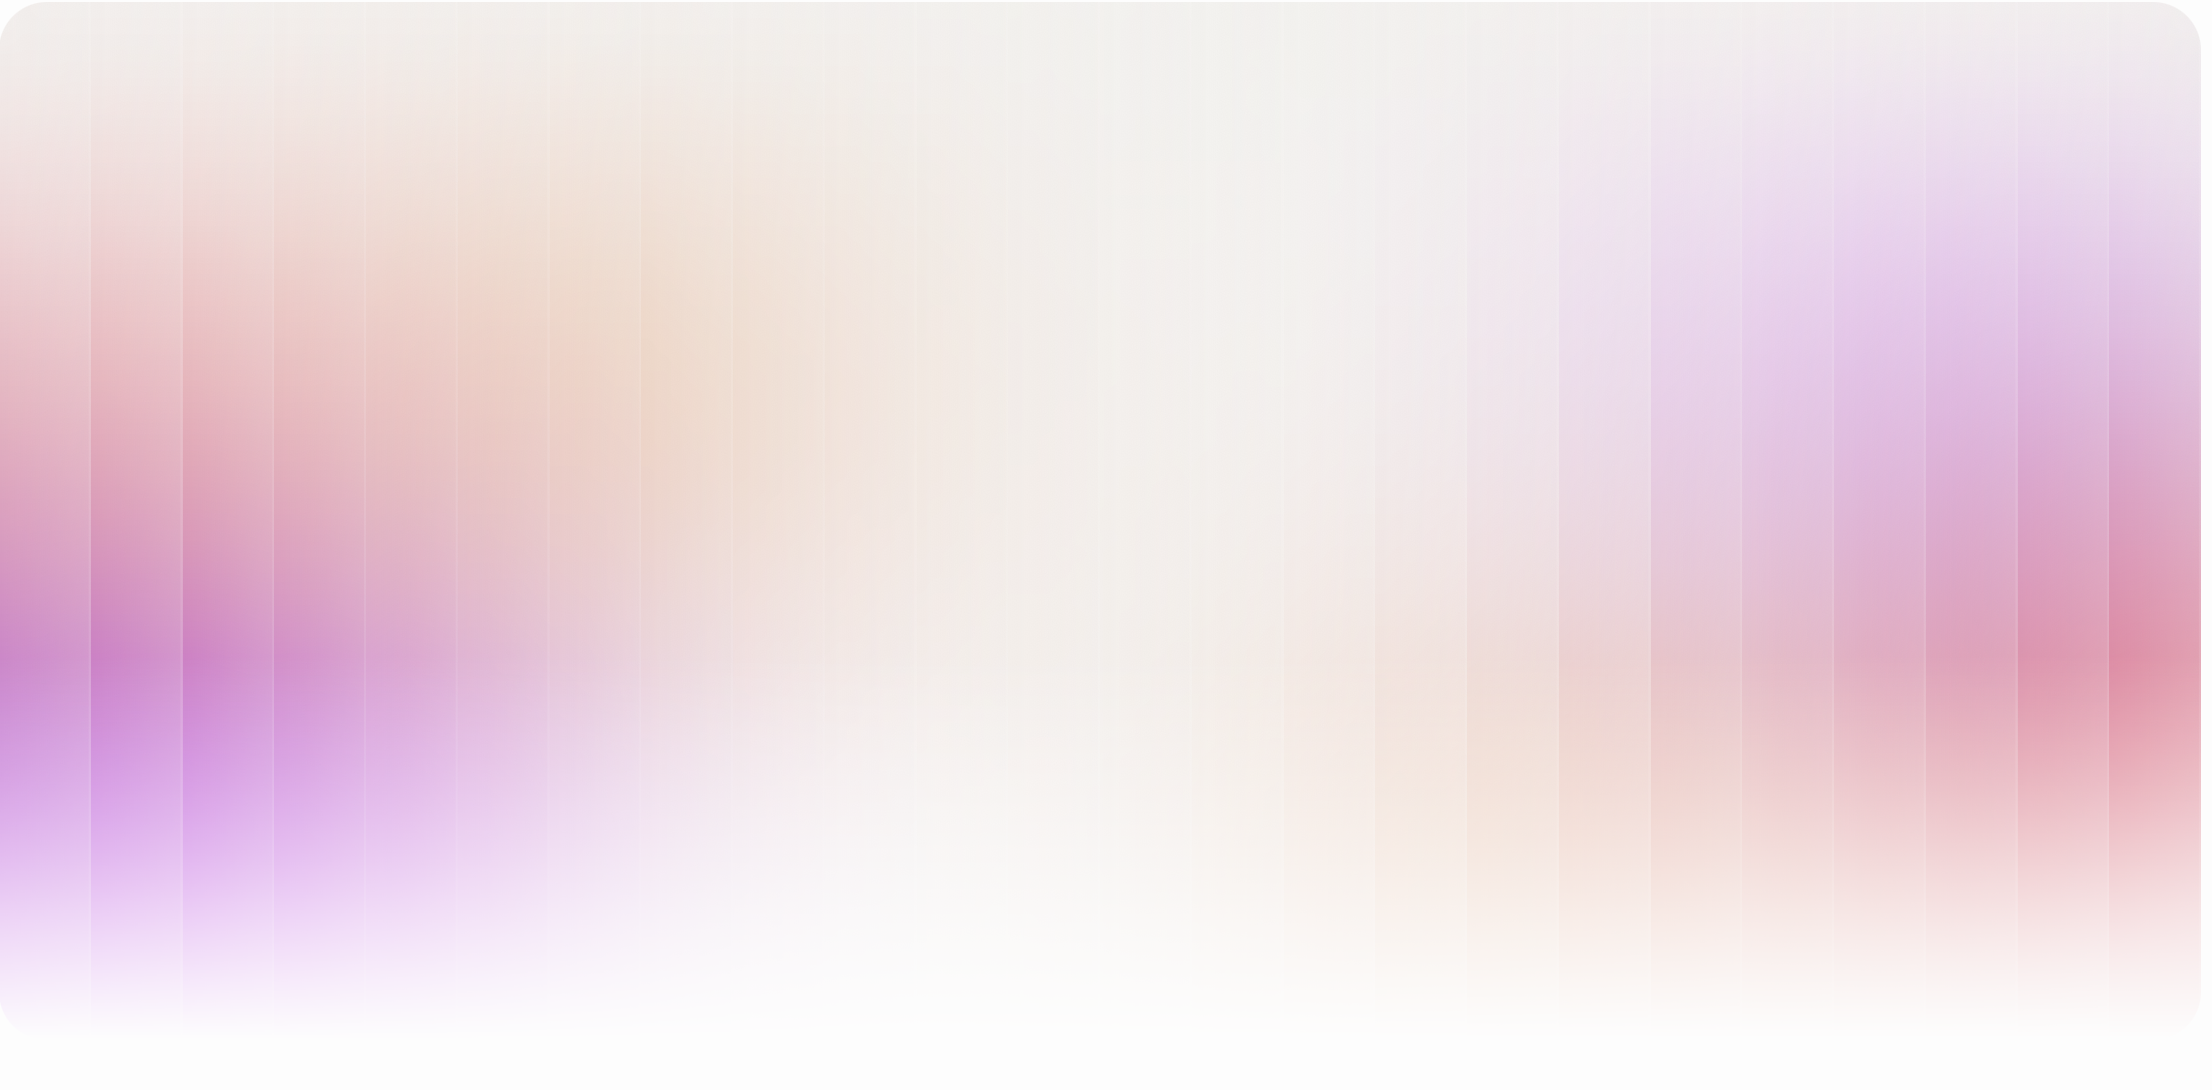
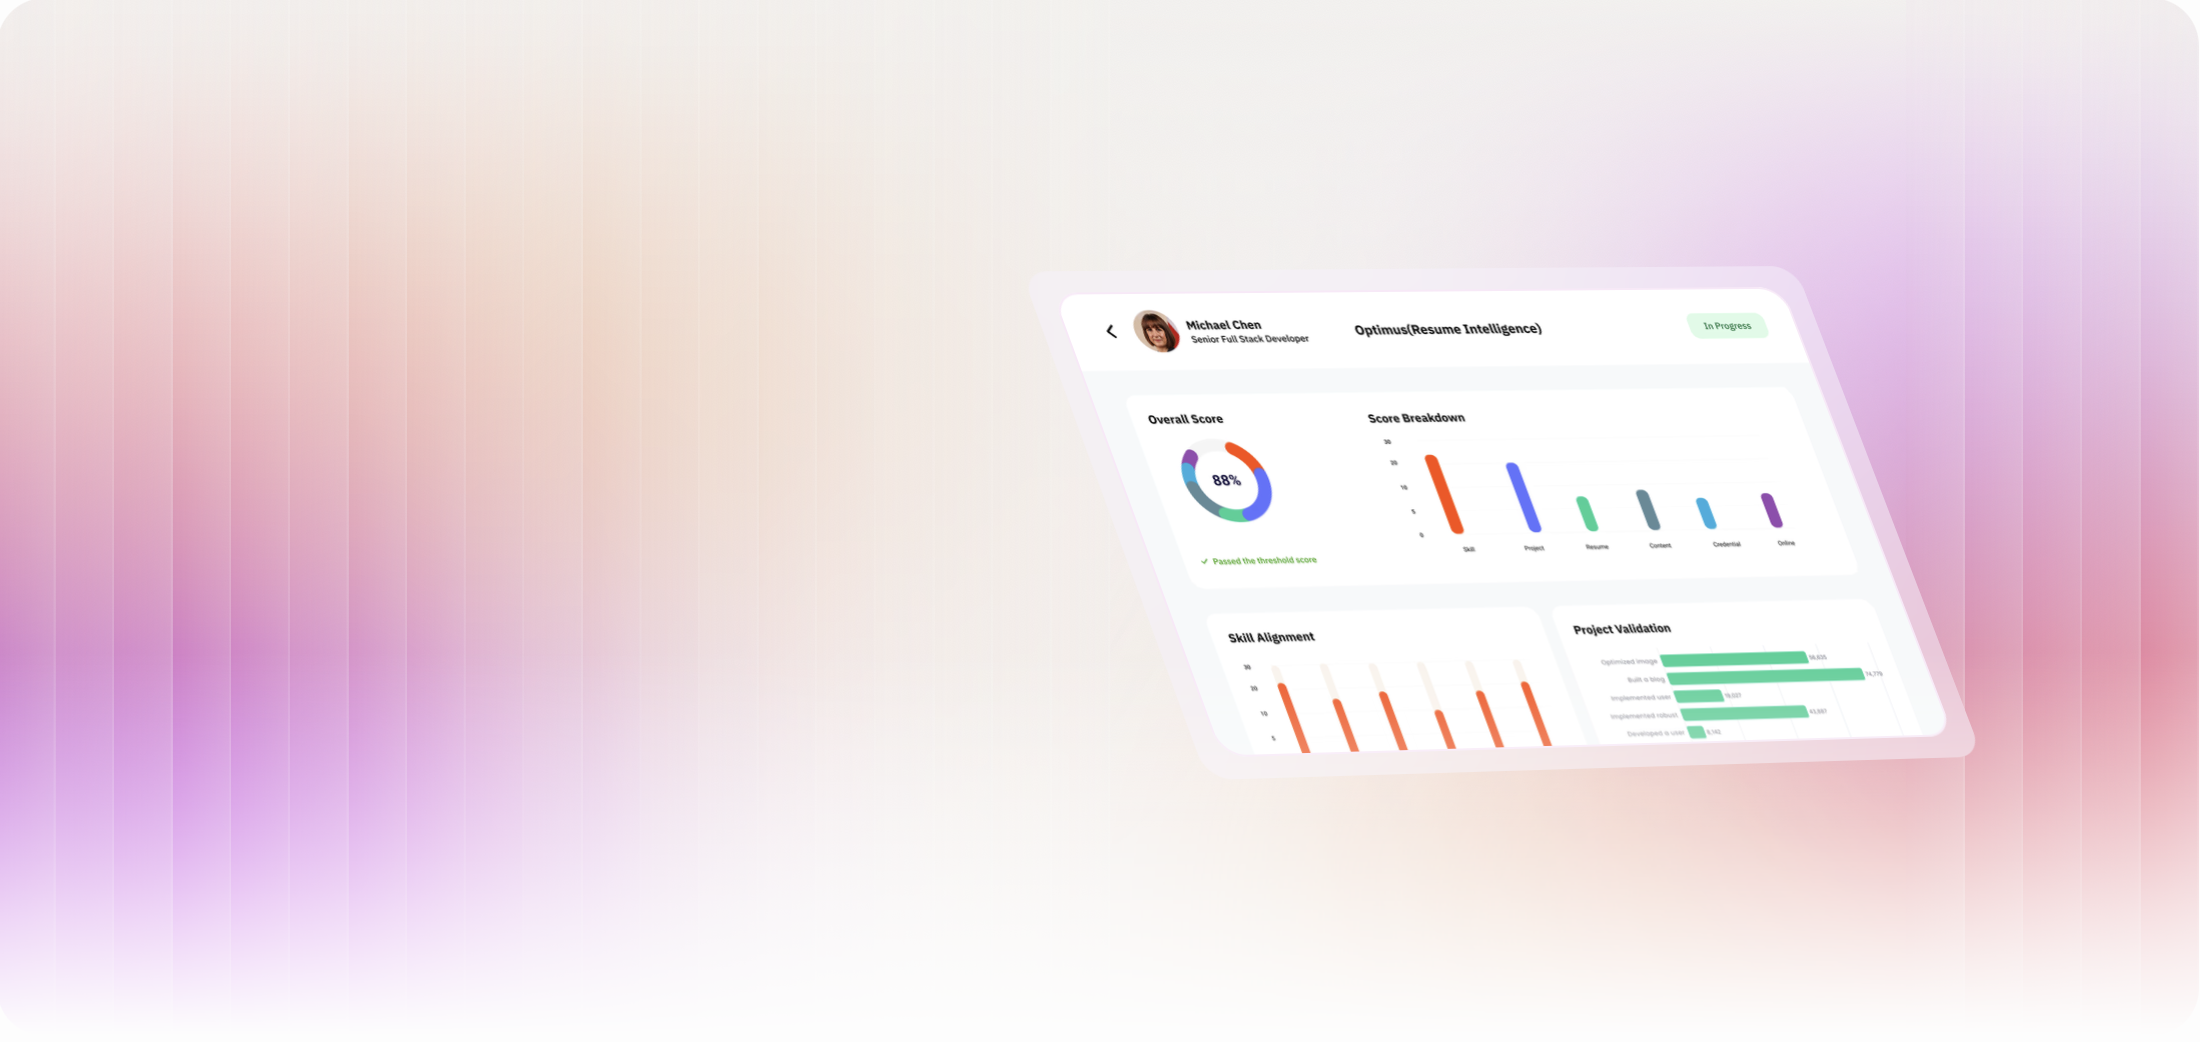
Done

Changed region(s): [[0.5255, 0.2764, 0.8964, 0.737], [0.9891, 0.0921, 1.0, 0.8906], [0.4945, 0.3071, 0.5873, 0.3378]]

diff --git a/frontend/src/components/blocks/FaqPage2.tsx b/frontend/src/components/blocks/FaqPage2.tsx
@@ -101,13 +101,13 @@ export default function FaqPage2({
           style={{ pointerEvents: "none" }} draggable={false} 
           /> 
           {/* Overlay for better text readability */} 
-          <div className="absolute inset-0 bg-blue-700/10 backdrop-blur-sm rounded-[32px] sm:rounded-[56px] z-10"></div> 
+          <div className="absolute inset-0 bg-blue-700/10 rounded-[32px] sm:rounded-[56px] z-10"></div> 
           <div className="relative z-20 flex flex-col md:flex-row items-center justify-center w-full h-full px-4 sm:px-8 py-8 sm:py-12"> 
             {/* Left: Text */} 
             <div className="flex-1 flex flex-col items-center md:items-start justify-center text-center md:text-left mb-8 md:mb-0"> 
               <h2 className="text-2xl sm:text-5xl md:text-6xl font-bold text-white mb-4 sm:mb-6"> {banner.title} 
                 </h2> 
-                <p className="text-base sm:text-xl text-white/90 mb-6 sm:mb-8"> {banner.subtitle} 
+                <p className="text-base sm:text-sx text-white/90 mb-6 sm:mb-8"> {banner.subtitle} 
                 </p> <button className="bg-white text-gray-900 font-semibold text-base sm:text-lg px-6 sm:px-8 py-3 sm:py-4 rounded-full shadow-lg hover:bg-blue-50 transition" onClick={banner.onButtonClick} > {banner.buttonText} 
                   </button> 
                   </div> 

diff --git a/frontend/src/components/Page/JobSeekersPage.tsx b/frontend/src/components/Page/JobSeekersPage.tsx
@@ -158,7 +158,7 @@ export const JobSeekersPage=()=>{
                         buttonText: "Start Practicing Now",
                         onButtonClick: () =>  window.location.href = "/pre-access",
                         peopleImages: [
-                        { src: img7, alt: "Person 1", style: { position: "absolute", top: "60%", left: "50%", transform: "translate(-50%, -50%)", width: "150%", height: "150%", objectFit: "cover", zIndex: 10 } },
+                        { src: img7, alt: "Person 1", style: { position: "absolute", top: "60%", left: "70%", transform: "translate(-50%, -50%)", width: "150%", height: "150%", objectFit: "cover", zIndex: 10 } },
                         ],
                     }}
                     />

diff --git a/frontend/src/components/blocks/HeroSmarterHiring.tsx b/frontend/src/components/blocks/HeroSmarterHiring.tsx
@@ -22,8 +22,8 @@ export default function HeroSmarterHiring({
   className="w-full min-h-[30vh] md:min-h-[50vh] flex items-center justify-center relative overflow-hidden rounded-[2.4vw] md:rounded-[3.5vw] mb-[12vh]"
   style={{
     background: `url(${backgroundImage}) center/cover no-repeat`,
-    maxWidth: "85%",
-    right: "-7.4%",
+    maxWidth: "90%",
+    right: "-5.0%",
   }}
 >
   {/* Subtle vertical stripes */}
@@ -63,7 +63,7 @@ export default function HeroSmarterHiring({
         alt="Person"
         className="relative z-10 w-[60%] md:w-[30vw] lg:w-[45vw] h-auto object-contain"
         style={{
-          marginLeft: "20%",
+          marginLeft: "40%",
           marginBottom: "-16vh",
         }}
       />
